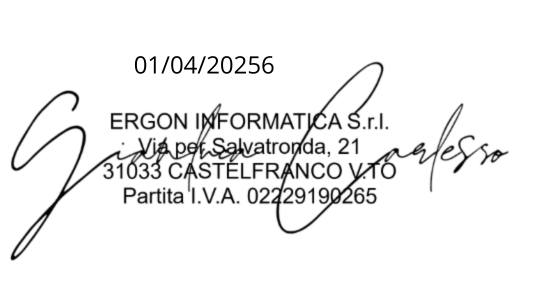
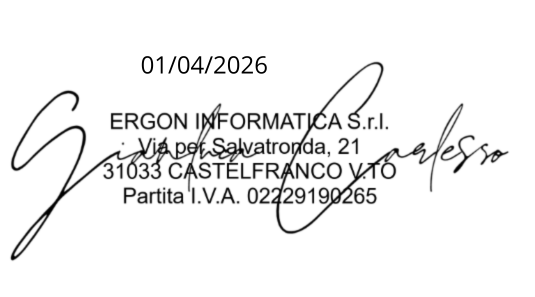
Fix firma e grammatica

Changed region(s): [[0.2393, 0.1818, 0.5084, 0.2727]]

diff --git a/src/PB/Verbali Esterni/2026-04-01_verbale_esterno/content/diario.tex b/src/PB/Verbali Esterni/2026-04-01_verbale_esterno/content/diario.tex
@@ -7,8 +7,8 @@ La risposta è stata che consumare i token per svolgere i test non è un problem
 dei loro utenti.
 
 \subsection{Dubbi requisiti desiderabili legati al caso d'uso UC\_23}
-Abbiamo chiesto conferma che i requisiti legati al caso d'uso UC\_23 (fornire feedback all'AI) fossero effettivamente desiderabili. 
-(Per maggiori informazioni consulatare l'\href{https://nullpointersgroup.github.io/Documentazione/output/PB/Documenti%20Esterni/Analisi_dei_Requisiti.pdf}{Analisi dei Requisiti}) \\
+Abbiamo chiesto conferma che i requisiti legati al caso d'uso UC\_23 (fornire feedback all'AI) fossero effettivamente desiderabili 
+(Per maggiori informazioni consultare l'\href{https://nullpointersgroup.github.io/Documentazione/output/PB/Documenti%20Esterni/Analisi_dei_Requisiti.pdf}{Analisi dei Requisiti}) \\
 La risposta è stata la conferma che questi requisiti possono essere considerati a tutti gli effetti desiderabili.
 
 \subsection{Presentazione dello stato attuale del prodotto e richiesta di presentazione MVP in presenza}
